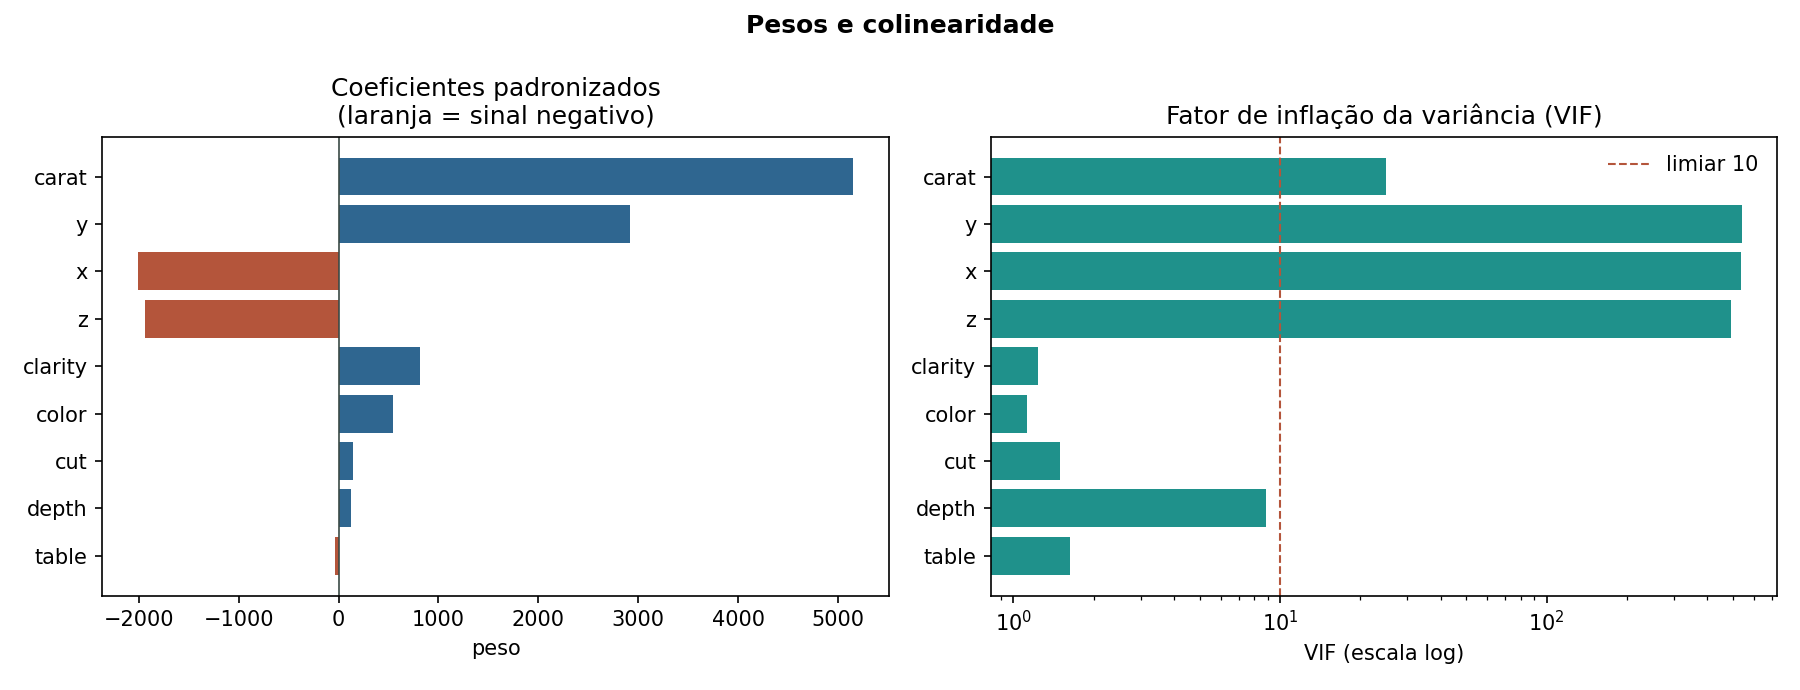
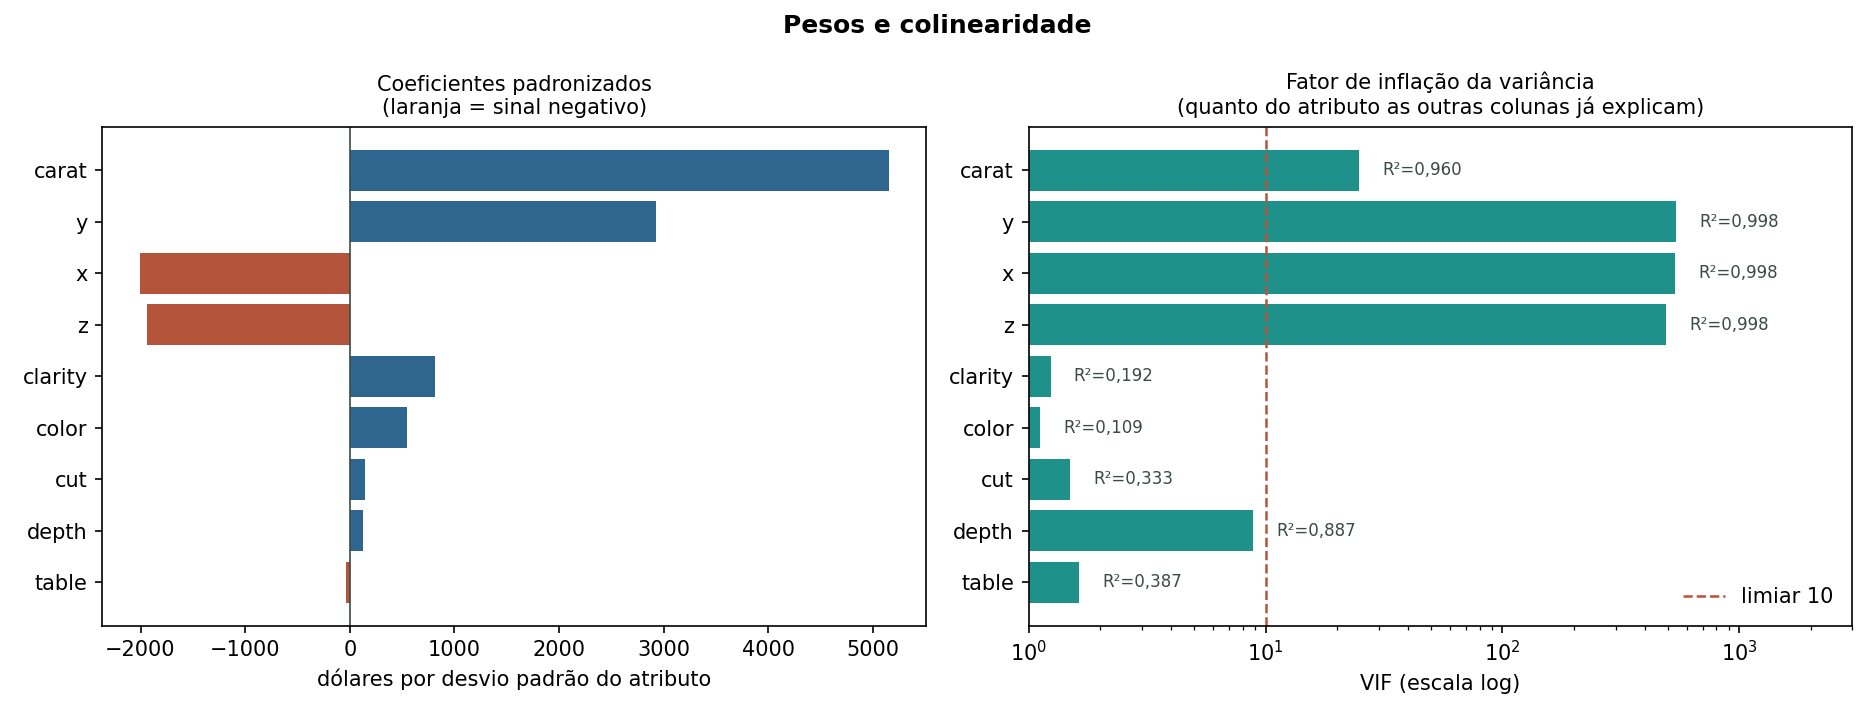
tabela de novo

diff --git a/03_analises.py b/03_analises.py
@@ -53,25 +53,40 @@ AZUL, VERDE, ROXO, LARANJA = "#2F6690", "#1F918B", "#3E2E62", "#B4553B"
 
 
 def pesos_e_vif(conjunto: dict) -> pd.DataFrame:
+    """Coeficiente e VIF de cada atributo, lado a lado.
+
+    O painel da direita traz o R² de cada atributo ao lado da barra, porque
+    "VIF = 539" nao diz nada sozinho: o que ele significa e que 99,8% daquela
+    coluna ja e explicada pelas outras.
+    """
     modelo = RegressaoLinearFechada().treinar(conjunto["X_treino"], conjunto["y_treino"])
     fatores = vif(conjunto["X_treino"])
     tabela = pd.DataFrame(
         {"coeficiente": modelo.coef_, "vif": fatores}, index=conjunto["colunas"]
     ).sort_values("coeficiente", key=abs, ascending=False)
 
-    fig, eixos = plt.subplots(1, 2, figsize=(12, 4.6))
-    cores = [LARANJA if c < 0 else AZUL for c in tabela.coeficiente]
-    eixos[0].barh(tabela.index[::-1], tabela.coeficiente[::-1], color=cores[::-1])
-    eixos[0].axvline(0, color="#3B4A46", linewidth=0.8)
-    eixos[0].set_title("Coeficientes padronizados\n(laranja = sinal negativo)")
-    eixos[0].set_xlabel("peso")
+    fig, eixos = plt.subplots(1, 2, figsize=(12.5, 4.8))
+    ordem = tabela.index[::-1]
 
-    eixos[1].barh(tabela.index[::-1], tabela.vif[::-1], color=VERDE)
-    eixos[1].axvline(10, color=LARANJA, linestyle="--", linewidth=1, label="limiar 10")
+    # --- esquerda: coeficientes padronizados ------------------------------- #
+    cores = [LARANJA if c < 0 else AZUL for c in tabela.coeficiente[::-1]]
+    eixos[0].barh(ordem, tabela.coeficiente[::-1], color=cores)
+    eixos[0].axvline(0, color="#3B4A46", linewidth=0.8)
+    eixos[0].set_title("Coeficientes padronizados\n(laranja = sinal negativo)", fontsize=10)
+    eixos[0].set_xlabel("dólares por desvio padrão do atributo")
+
+    # --- direita: VIF em escala log, com o R2 de cada atributo -------------- #
+    eixos[1].barh(ordem, tabela.vif[::-1], color=VERDE)
+    eixos[1].axvline(10, color=LARANJA, linestyle="--", linewidth=1.2, label="limiar 10")
     eixos[1].set_xscale("log")
-    eixos[1].set_title("Fator de inflação da variância (VIF)")
+    eixos[1].set_xlim(1, 3000)
+    for i, v in enumerate(tabela.vif[::-1]):
+        eixos[1].text(v * 1.25, i, f"R²={1 - 1 / v:.3f}".replace(".", ","),
+                      va="center", fontsize=8, color="#3B4A46")
+    eixos[1].set_title("Fator de inflação da variância\n"
+                       "(quanto do atributo as outras colunas já explicam)", fontsize=10)
     eixos[1].set_xlabel("VIF (escala log)")
-    eixos[1].legend(frameon=False)
+    eixos[1].legend(frameon=False, loc="lower right")
 
     fig.suptitle("Pesos e colinearidade", fontweight="bold")
     fig.tight_layout()
@@ -113,16 +128,42 @@ def convergencia(conjunto: dict, taxa: float, epocas: int) -> None:
     )
     distancia = distancia_ate_a_solucao_exata(gd, fechada)
 
-    fig, eixos = plt.subplots(1, 2, figsize=(11, 4.2))
-    eixos[0].plot(gd.historico_["custo"], color=AZUL)
-    eixos[0].set_yscale("log")
-    eixos[0].set_xlabel("época"); eixos[0].set_ylabel("J(w)")
-    eixos[0].set_title("Custo por época")
+    custo = np.array(gd.historico_["custo"])
+    marco = int(np.argmax(custo <= custo[-1] * 1.01))  # custo entra em 1% do final
 
+    fig, eixos = plt.subplots(1, 2, figsize=(12, 4.4))
+
+    # --- esquerda: o custo, que satura quase imediatamente ------------------ #
+    eixos[0].plot(custo, color=AZUL)
+    eixos[0].set_yscale("log")
+    eixos[0].axvline(marco, color=LARANJA, linestyle="--", linewidth=1.2)
+    eixos[0].annotate(f"época {marco:,}\ncusto a 1% do final".replace(",", "."),
+                      xy=(marco, custo[marco]), xytext=(0.16, 0.70),
+                      textcoords="axes fraction", fontsize=8.5, color=LARANJA,
+                      arrowprops={"arrowstyle": "->", "color": LARANJA, "lw": 1})
+    eixos[0].set_xlabel("época"); eixos[0].set_ylabel("J(w)")
+    eixos[0].set_title("Custo por época — satura cedo", fontsize=10)
+
+    # detalhe das primeiras mil epocas, onde tudo acontece
+    lupa = eixos[0].inset_axes([0.46, 0.16, 0.50, 0.34])
+    lupa.plot(custo[:1000], color=AZUL, linewidth=1)
+    lupa.set_yscale("log")
+    lupa.axvline(marco, color=LARANJA, linestyle="--", linewidth=1)
+    lupa.tick_params(labelsize=6.5)
+    lupa.set_title("primeiras 1.000 épocas", fontsize=7)
+
+    # --- direita: os pesos, que continuam se movendo ------------------------ #
     eixos[1].plot(distancia, color=VERDE)
     eixos[1].set_yscale("log")
+    eixos[1].axvline(marco, color=LARANJA, linestyle="--", linewidth=1.2)
+    eixos[1].annotate(f"na mesma época {marco:,}\nos pesos ainda estão\na {distancia[marco]:,.0f} da solução"
+                      .replace(",", "."),
+                      xy=(marco, distancia[marco]), xytext=(0.30, 0.78),
+                      textcoords="axes fraction", fontsize=8.5, color=LARANJA,
+                      arrowprops={"arrowstyle": "->", "color": LARANJA, "lw": 1})
     eixos[1].set_xlabel("época"); eixos[1].set_ylabel("‖w − w*‖")
-    eixos[1].set_title("Distância até a solução exata")
+    eixos[1].set_title("Distância até a solução exata — reta = decaimento geométrico",
+                       fontsize=10)
 
     fig.suptitle(f"Convergência do Gradient Descent (taxa={taxa:g})", fontweight="bold")
     fig.tight_layout()

diff --git a/TABELA_PESOS_VIF.md b/TABELA_PESOS_VIF.md
@@ -1,0 +1,76 @@
+# Análise dos pesos — tabelas para os slides
+
+Configuração **ordinal com alvo em USD**, solução por equações normais.
+Atributos padronizados (z = (x − μ)/σ, com μ e σ estimados só no treino), então cada peso está em **dólares por desvio padrão do atributo** — é isso que permite comparar quilates, milímetros e níveis de qualidade na mesma escala. Intercepto descartado.
+
+---
+
+## Slide — Os pesos
+
+| Atributo | Coeficiente (US$ / σ) | VIF | Desvio bootstrap | Coef. / desvio |
+|---|---:|---:|---:|---:|
+| carat | 5.150,26 | 24,87 | 112,01 | 46,0 |
+| y | 2.922,12 | 539,53 | 427,87 | 6,8 |
+| x | **−2.007,21** | 537,19 | 396,70 | −5,1 |
+| z | **−1.934,83** | 489,70 | 761,97 | −2,5 |
+| clarity | 816,24 | 1,24 | 8,82 | 92,5 |
+| color | 548,88 | 1,12 | 7,44 | 73,8 |
+| cut | 145,34 | 1,50 | 7,43 | 19,5 |
+| depth | 125,62 | 8,87 | 93,05 | 1,4 |
+| table | −39,93 | 1,63 | 8,22 | −4,9 |
+
+> **Coerente:** `carat` domina, e as três qualidades saem positivas e na ordem que um catálogo de joalheria prevê — `clarity` > `color` > `cut`.
+>
+> **Fisicamente absurdo:** `x` e `z` saem **negativos**, apesar de correlacionarem +0,89 e +0,88 com o preço. Não é erro de sinal — é colinearidade.
+
+---
+
+## Slide — O que o VIF está medindo
+
+$$\mathrm{VIF}_j = \frac{1}{1 - R^2_j}$$
+
+onde $R^2_j$ vem de regredir o atributo *j* contra **todos os outros atributos** — o preço não entra na conta. A pergunta que ele responde: *quanto desta coluna já está contido nas demais?*
+
+| Atributo | VIF | R²_j | √VIF | Leitura |
+|---|---:|---:|---:|---|
+| y | 539,53 | 0,9981 | 23,2 | 99,8% da largura é previsível pelas outras colunas |
+| x | 537,19 | 0,9981 | 23,2 | idem para o comprimento |
+| z | 489,70 | 0,9980 | 22,1 | idem para a altura |
+| carat | 24,87 | 0,9598 | 5,0 | **redundante**: 96% previsível — massa ≈ densidade × volume ≈ x·y·z |
+| *— limiar de alerta: VIF 10 —* | | | | |
+| depth | 8,87 | 0,8873 | 3,0 | 88,7% previsível — é a razão 2z/(x+y) × 100 |
+| table | 1,63 | 0,386 | 1,3 | independente — só 39% previsível |
+| cut | 1,50 | 0,333 | 1,2 | independente |
+| clarity | 1,24 | 0,194 | 1,1 | independente |
+| color | 1,12 | 0,107 | 1,1 | praticamente ortogonal ao resto |
+
+**Limiar de alerta: VIF = 10**, que corresponde a R² = 0,90 — noventa por cento da coluna redundante.
+
+**De onde vem o nome:** a variância do coeficiente é multiplicada pelo VIF, então o erro-padrão é multiplicado por **√VIF**. Com VIF 537, o erro-padrão de `x` está inflado **23 vezes**. É esse fator que abre espaço para um coeficiente trocar de sinal sem que o ajuste perca qualidade.
+
+**Cuidado — VIF alto não condena o coeficiente sozinho.** `carat` tem VIF 24,87 e mesmo assim é legível, porque o efeito dele (5.150 US$/σ) é grande o bastante para sobreviver à inflação: fica a 46 desvios de zero. Já `depth` tem VIF 8,87, *abaixo* do limiar, e é o coeficiente mais frágil da tabela, a 1,4 desvios. Quem decide é a razão coeficiente/desvio, não o VIF isolado.
+
+---
+
+## Slide — A conclusão
+
+| | Atributos | Por quê |
+|---|---|---|
+| **Interpretáveis** | `clarity`, `color`, `cut`, e `carat` com ressalva | VIF entre 1,1 e 1,5; coeficiente a 19,5–92,5 desvios de zero |
+| **Não interpretáveis isoladamente** | `x`, `y`, `z`, `depth` | VIF de 8,9 a 539,5; `z` a apenas 2,5 desvios, `depth` a 1,4 |
+
+Somando os quatro atributos de tamanho:
+
+$$5.150{,}26 + 2.922{,}12 - 2.007{,}21 - 1.934{,}83 = \mathbf{4.130{,}34}\ \text{US\$ por desvio padrão}$$
+
+> **O total tem significado; a divisão entre as parcelas não.** Um diamante maior é maior em todas as medidas ao mesmo tempo, e é assim que as quatro colunas se movem na realidade. O mínimo quadrado não tem como repartir o crédito do "tamanho" entre elas, e resolve o empate com pesos grandes de sinais opostos que se cancelam.
+>
+> **Isso não degrada a predição** — o R² de 0,91 desta configuração continua valendo, porque o modelo usa a *combinação* das colunas, e ela é estável. Degrada a *interpretação* atributo por atributo. Predizer bem e explicar bem são objetivos diferentes, e falham de formas diferentes.
+
+---
+
+## Curiosidade que rende ponto
+
+Se `depth` é função exata de `x`, `y` e `z` — a §3.1 mostra que a reconstrução bate com erro mediano de 0,027 ponto percentual —, por que o VIF dele é 8,87 e não infinito?
+
+Porque `depth` é uma **razão**, não uma combinação linear, e o VIF mede previsibilidade **linear**. Uma função não linear de colunas presentes deixa resíduo linear, e por isso o R² dá 0,887 em vez de 1.

diff --git a/RELATORIO.md b/RELATORIO.md
@@ -382,11 +382,14 @@ O experimento de convergência usa a mesma configuração de 5.1 (ordinal, alvo 
 
 **A pergunta do enunciado — "tem algum ponto que eles não se alteram mais?" — tem duas respostas diferentes, e a diferença entre elas é o resultado mais informativo deste projeto.** Se a pergunta for respondida olhando o custo, a convergência acontece quase imediatamente. Se for respondida olhando os parâmetros, ela leva quase todo o orçamento de 50.000 épocas:
 
-| marco | época | fração das 50.000 épocas |
-|---|---:|---:|
-| custo entra em 1% do valor final | **331** | 0,7% |
-| custo entra em 0,01% do valor final | **5.034** | 10,1% |
-| pesos entram em $\lVert w - w^{*}\rVert < 10^{-6}$ | **45.776** | 91,6% |
+| época | o que aconteceu |
+|---|---|
+| **331** | As **previsões** pararam de melhorar. Daqui em diante o modelo prevê preços praticamente iguais. Mas os pesos ainda estão muito errados: o de `y` vale 151, quando o valor correto é 2.922. |
+| **5.034** | As previsões pararam **de vez** — mesmo olhando com lupa, a 0,01% em vez de 1%, o custo não se mexe mais. Os pesos, porém, continuam se ajustando: `y` já subiu para 2.642. |
+| **45.776** | Os **pesos** finalmente chegaram. A diferença para os valores exatos caiu abaixo de 0,000001 — irrelevante diante de coeficientes na casa dos milhares. |
+| **50.000** | Fim do orçamento de épocas. Diferença final: 0,0000001. |
+
+> Entre a época 331 e o fim, a previsão de uma pedra do teste saiu de US$ 5.109,60 para US$ 5.203,73 — uma mudança de **1,8%**. No mesmo intervalo, o peso de `y` saiu de 150,67 para 2.922,12 — uma mudança de **19 vezes**. O custo não enxerga essa reorganização porque os erros dos pesos se cancelam entre si na previsão: `x` e `y` são quase a mesma coluna, então errar para mais num e para menos no outro devolve a mesma resposta.
 
 O custo cai de 14.726.240,93 na primeira época registrada para 1.475.327,47 no fim — o valor final é 10,0% do inicial. Mas 99% dessa queda já ocorreu na época **331**. Quem monitorasse apenas a curva da esquerda na Figura 8 pararia o treino ali e concluiria, erradamente, que os parâmetros já estavam prontos. A curva da direita mostra que não: a distância até $w^{*}$ continua descendo em linha reta na escala log por mais de quarenta mil épocas, e só cruza $10^{-6}$ na época **45.776**, terminando em **1,018 × 10⁻⁷**. Entre a época 331 e a época 45.776 o custo praticamente não se move e os pesos se movem muito — inclusive os pesos de `x`, `y` e `z`, que são exatamente os atributos identificados em 5.1 como os de determinação mais difícil.
 
